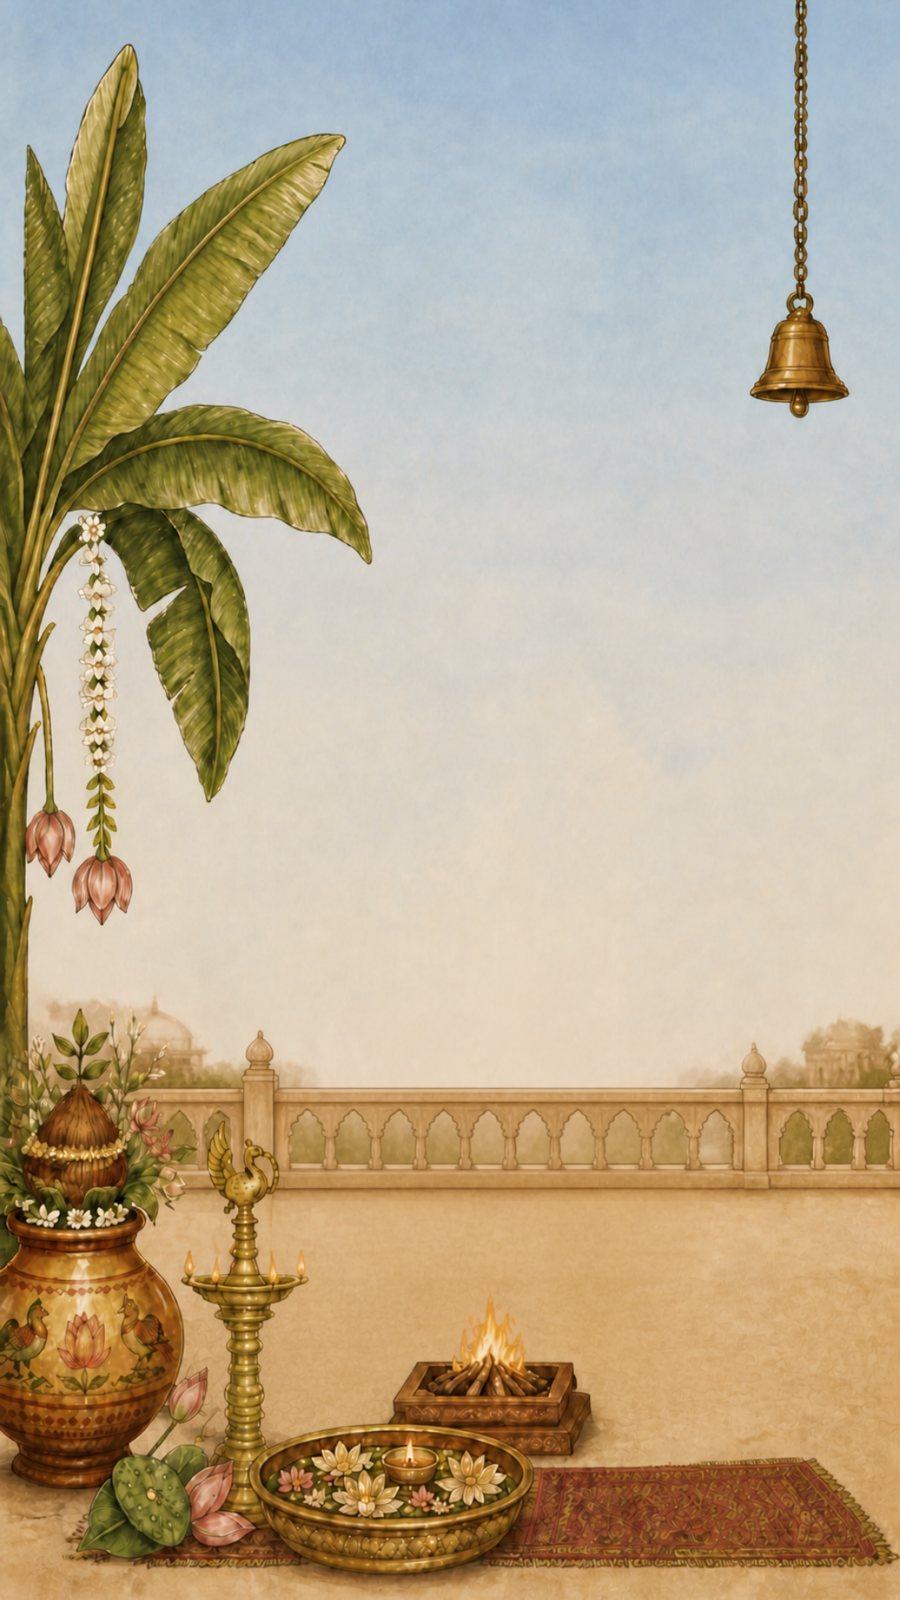
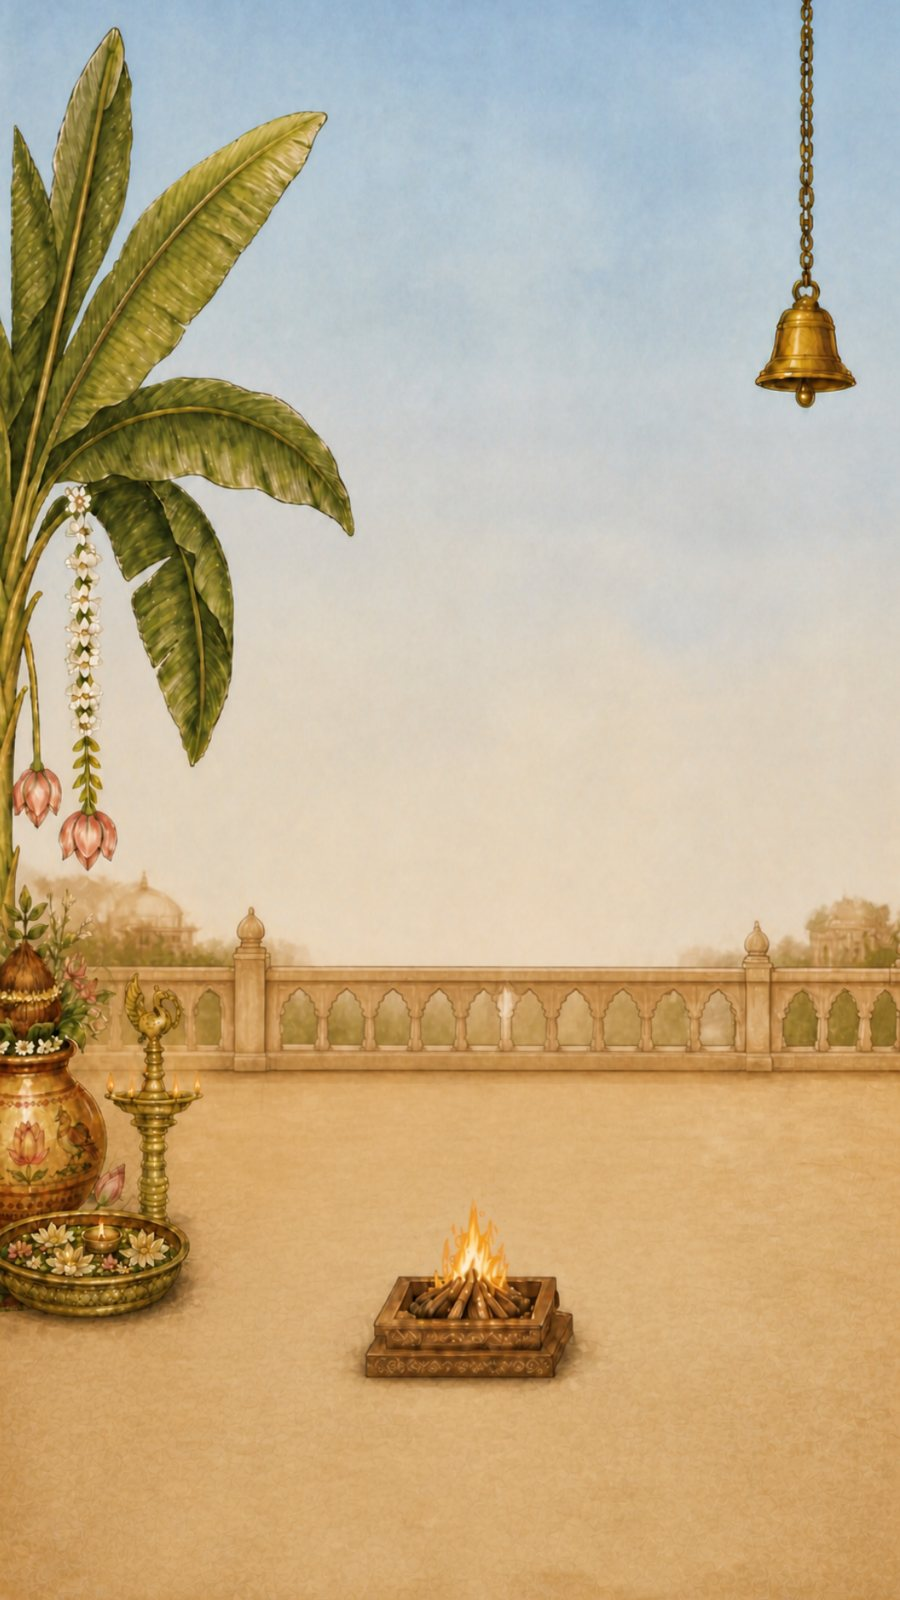
Fix the event animations, show every ritual, text amendments
Pin her fingertips in his hand while she twirls around him, land his
fingertip on her cheek before the haldi appears, and walk the pheras
around a centred fire on open floor. Show all seven rituals at once,
drop the repeated D-Day label, and update chapter three and the groom's
family contact.

Claude-Session: https://claude.ai/code/session_019B6NoVCTSqGoMKxvRqAEtT

diff --git a/css/main.css b/css/main.css
@@ -364,31 +364,62 @@ body.door-open .leaf-r { transform: rotateY(105deg); }
 .ev-scene::after { content: ""; position: absolute; inset: 0; pointer-events: none; background: linear-gradient(180deg, var(--bg), transparent 14%, transparent 90%, var(--bg)); z-index: 4; }
 .fig { position: absolute; display: block; height: auto; }
 
-/* night one: she twirls across the floor into his arm */
+
+/* night one: he holds her fingertips up high and she twirls around him */
 .scene-cocktail .fig-him { left: 14%; bottom: 7%; width: 30%; z-index: 2; }
-.scene-cocktail .fig-her { left: 34%; bottom: 6%; width: 40%; z-index: 3; animation: twirl 7s cubic-bezier(.45, 0, .3, 1) infinite; transform-origin: 50% 90%; }
+.scene-cocktail .fig-her { left: 16.5%; bottom: 7%; width: 40.0%; z-index: 3; transform-origin: 64.6% 0; scale: -1 1; animation: twirl 8s ease-in-out infinite; }
 @keyframes twirl {
-    0%, 8% { translate: 52% 0; scale: 1 1; }
-    18% { scale: -1 1; } 28% { scale: 1 1; } 38% { scale: -1 1; } 48% { scale: 1 1; }
-    56%, 86% { translate: 0 0; scale: 1 1; rotate: -3deg; }
-    100% { translate: 52% 0; scale: 1 1; rotate: 0deg; }
+    0%, 6% { scale: -1 1; rotate: 0deg; z-index: 3; }
+    18% { scale: 1 1; rotate: 6deg; z-index: 3; }
+    30% { scale: -1 1; rotate: 0deg; z-index: 1; }
+    42% { scale: 1 1; rotate: 6deg; z-index: 3; }
+    54% { scale: -1 1; rotate: 0deg; z-index: 1; }
+    62%, 100% { scale: -1 1; rotate: 0deg; z-index: 3; }
 }
 
-/* morning three: he leans in and dabs haldi on her cheek */
-.scene-haldi .fig-him { left: 2%; bottom: 7%; width: 52%; z-index: 2; transform-origin: 30% 95%; animation: dab 5s ease-in-out infinite; }
-.scene-haldi .fig-her-wrap { position: absolute; right: 2%; bottom: 7%; width: 50%; z-index: 3; animation: giggle 5s ease-in-out infinite; transform-origin: 50% 100%; }
+/* morning three: they sit apart, he leans in, his fingers touch her cheek, the haldi appears */
+.scene-haldi .fig-him { left: 6.4%; bottom: 7%; width: 52%; z-index: 3; transform-origin: 30% 95%; animation: dab 6s ease-in-out infinite; }
+.scene-haldi .fig-her-wrap { position: absolute; left: 52%; bottom: 7%; width: 50%; z-index: 2; animation: giggle 6s ease-in-out infinite; transform-origin: 50% 100%; }
 .scene-haldi .fig-her { position: static; width: 100%; }
 .smudge {
-    position: absolute; left: 44%; top: 21%; width: 9%; aspect-ratio: 1.3; border-radius: 50%;
+    position: absolute; left: 31.5%; top: 12.5%; width: 9%; aspect-ratio: 1.3; border-radius: 50%;
     background: radial-gradient(ellipse, rgba(245, 190, 30, .95) 30%, rgba(245, 190, 30, 0) 70%);
-    opacity: 0; animation: smudge 5s ease-in-out infinite;
+    opacity: 0; animation: smudge 6s ease-in-out infinite;
 }
-@keyframes dab { 0%, 15% { translate: 0 0; rotate: 0deg; } 38%, 48% { translate: 15% -2%; rotate: 4deg; } 65%, 100% { translate: 0 0; rotate: 0deg; } }
-@keyframes giggle { 0%, 40% { rotate: 0deg; translate: 0 0; } 46% { rotate: 3deg; translate: 2% 0; } 52% { rotate: -1deg; } 58%, 100% { rotate: 0deg; translate: 0 0; } }
-@keyframes smudge { 0%, 42% { opacity: 0; scale: .4; } 50%, 92% { opacity: 1; scale: 1; } 100% { opacity: 0; } }
+@keyframes dab { 0%, 22% { left: 6.4%; rotate: 0deg; } 42%, 58% { left: 22.4%; rotate: -12.9deg; } 76%, 100% { left: 6.4%; rotate: 0deg; } }
+@keyframes giggle { 0%, 22% { left: 52%; rotate: 0deg; } 42% { left: 48%; rotate: 0deg; } 50% { left: 48%; rotate: 3deg; } 58% { left: 48%; rotate: -1deg; } 76%, 100% { left: 52%; rotate: 0deg; } }
+@keyframes smudge { 0%, 46% { opacity: 0; scale: .3; } 54%, 92% { opacity: 1; scale: 1; } 100% { opacity: 0; } }
 
-/* the D-Day: walking the pheras around the sacred fire */
-.scene-wedding .flame { position: absolute; left: 50%; bottom: 17%; width: 12%; aspect-ratio: 1 / 1.3; translate: -50% 0; z-index: 2; }
+/* the D-Day: walking the pheras around the sacred fire, behind it on the far side */
+.scene-wedding .flame { position: absolute; left: 53%; bottom: 24.5%; width: 9%; aspect-ratio: 1 / 1.3; translate: -50% 0; z-index: 2; }
+.scene-wedding .fig-pheras { width: 25%; translate: none; animation: pheras 16s linear infinite; }
+@keyframes pheras {
+    0.00% { left: 57.00%; bottom: 2.00%; transform: translateX(-50%) scale(1.000, 1.000); z-index: 4; }
+    4.17% { left: 63.99%; bottom: 2.56%; transform: translateX(-50%) scale(0.996, 0.996); z-index: 4; }
+    8.33% { left: 70.50%; bottom: 4.21%; transform: translateX(-50%) scale(0.983, 0.983); z-index: 4; }
+    12.50% { left: 76.09%; bottom: 6.83%; transform: translateX(-50%) scale(0.962, 0.962); z-index: 4; }
+    16.67% { left: 80.38%; bottom: 10.25%; transform: translateX(-50%) scale(0.935, 0.935); z-index: 4; }
+    20.83% { left: 83.08%; bottom: 14.23%; transform: translateX(-50%) scale(0.904, 0.904); z-index: 4; }
+    25.00% { left: 84.00%; bottom: 18.50%; transform: translateX(-50%) scale(0.870, 0.870); z-index: 4; }
+    29.17% { left: 83.08%; bottom: 22.77%; transform: translateX(-50%) scale(-0.836, 0.836); z-index: 1; }
+    33.33% { left: 80.38%; bottom: 26.75%; transform: translateX(-50%) scale(-0.805, 0.805); z-index: 1; }
+    37.50% { left: 76.09%; bottom: 30.17%; transform: translateX(-50%) scale(-0.778, 0.778); z-index: 1; }
+    41.67% { left: 70.50%; bottom: 32.79%; transform: translateX(-50%) scale(-0.757, 0.757); z-index: 1; }
+    45.83% { left: 63.99%; bottom: 34.44%; transform: translateX(-50%) scale(-0.744, 0.744); z-index: 1; }
+    50.00% { left: 57.00%; bottom: 35.00%; transform: translateX(-50%) scale(-0.740, 0.740); z-index: 1; }
+    54.17% { left: 50.01%; bottom: 34.44%; transform: translateX(-50%) scale(-0.744, 0.744); z-index: 1; }
+    58.33% { left: 43.50%; bottom: 32.79%; transform: translateX(-50%) scale(-0.757, 0.757); z-index: 1; }
+    62.50% { left: 37.91%; bottom: 30.17%; transform: translateX(-50%) scale(-0.778, 0.778); z-index: 1; }
+    66.67% { left: 33.62%; bottom: 26.75%; transform: translateX(-50%) scale(-0.805, 0.805); z-index: 1; }
+    70.83% { left: 30.92%; bottom: 22.77%; transform: translateX(-50%) scale(-0.836, 0.836); z-index: 1; }
+    75.00% { left: 30.00%; bottom: 18.50%; transform: translateX(-50%) scale(-0.870, 0.870); z-index: 4; }
+    79.17% { left: 30.92%; bottom: 14.23%; transform: translateX(-50%) scale(0.904, 0.904); z-index: 4; }
+    83.33% { left: 33.62%; bottom: 10.25%; transform: translateX(-50%) scale(0.935, 0.935); z-index: 4; }
+    87.50% { left: 37.91%; bottom: 6.83%; transform: translateX(-50%) scale(0.962, 0.962); z-index: 4; }
+    91.67% { left: 43.50%; bottom: 4.21%; transform: translateX(-50%) scale(0.983, 0.983); z-index: 4; }
+    95.83% { left: 50.01%; bottom: 2.56%; transform: translateX(-50%) scale(0.996, 0.996); z-index: 4; }
+    100.00% { left: 57.00%; bottom: 2.00%; transform: translateX(-50%) scale(1.000, 1.000); z-index: 4; }
+}
 .scene-wedding .flame i {
     position: absolute; left: 50%; bottom: 0; width: 70%; height: 100%; translate: -50% 0; border-radius: 50% 50% 35% 35% / 65% 65% 35% 35%;
     background: radial-gradient(ellipse at 50% 85%, #fff4c2 0 18%, #ffc24a 40%, rgba(242, 106, 33, .85) 66%, rgba(242, 106, 33, 0) 72%);
@@ -397,16 +428,6 @@ body.door-open .leaf-r { transform: rotateY(105deg); }
 .scene-wedding .flame i:nth-child(2) { width: 50%; height: 78%; translate: -90% 0; animation-duration: .8s; }
 .scene-wedding .flame i:nth-child(3) { width: 48%; height: 72%; translate: -10% 0; animation-duration: .95s; animation-delay: -.3s; }
 @keyframes flicker { from { scale: 1 1; } to { scale: .88 1.12; } }
-.scene-wedding .fig-pheras { left: 50%; bottom: 8%; width: 46%; translate: -50% 0; animation: pheras 12s linear infinite; }
-@keyframes pheras {
-    0% { transform: translate(-58%, 0) scale(1, 1); z-index: 3; }
-    24% { transform: translate(58%, -14%) scale(.9, .9); z-index: 3; }
-    25% { transform: translate(58%, -14%) scale(-.9, .9); z-index: 1; }
-    50% { transform: translate(0, -24%) scale(-.78, .78); z-index: 1; }
-    74% { transform: translate(-58%, -14%) scale(-.9, .9); z-index: 1; }
-    75% { transform: translate(-58%, -14%) scale(.9, .9); z-index: 3; }
-    100% { transform: translate(-58%, 0) scale(1, 1); z-index: 3; }
-}
 .scene-wedding .bells-r { right: 10%; height: 150px; }
 
 .ev-details { max-width: 460px; margin: 0 auto; padding: 26px 22px 0; }
@@ -425,15 +446,15 @@ body.door-open .leaf-r { transform: rotateY(105deg); }
 /* order of the day as a horizontal timeline */
 .schedule-wrap { margin: 8px -22px 26px; }
 .schedule-hint { font: italic 400 15px var(--display); color: var(--soft); margin: -6px 0 12px; }
-.timeline { list-style: none; margin: 0; padding: 6px 22px 4px; display: flex; overflow-x: auto; scroll-snap-type: x proximity; scrollbar-width: none; }
+.timeline { list-style: none; margin: 0; padding: 6px 14px 4px; display: flex; flex-wrap: wrap; justify-content: center; row-gap: 16px; }
 .timeline::-webkit-scrollbar { display: none; }
-.timeline li { flex: 0 0 auto; scroll-snap-align: center; }
-.timeline button { position: relative; width: 104px; display: flex; flex-direction: column; align-items: center; gap: 8px; padding: 0 4px; border: 0; background: none; color: inherit; cursor: pointer; font: inherit; }
+.timeline li { flex: 0 0 25%; }
+.timeline button { position: relative; width: 100%; display: flex; flex-direction: column; align-items: center; gap: 8px; padding: 0 4px; border: 0; background: none; color: inherit; cursor: pointer; font: inherit; }
 .timeline button::before { content: ""; position: absolute; top: 31px; left: 0; right: 0; height: 1px; background: var(--accent); opacity: .6; }
-.timeline li:first-child button::before { left: 50%; } .timeline li:last-child button::before { right: 50%; }
+.timeline li:nth-child(4n+1) button::before { left: 50%; } .timeline li:nth-child(4n) button::before, .timeline li:last-child button::before { right: 50%; }
 .t-time { font: 600 12px var(--sans); letter-spacing: .08em; color: var(--accent); }
 .t-dot { position: relative; z-index: 1; width: 12px; height: 12px; rotate: 45deg; background: var(--bg); border: 1.5px solid var(--ink); transition: background .3s, scale .3s; }
-.t-name { font: italic 500 16px/1.2 var(--display); min-height: 2.4em; }
+.t-name { font: italic 500 15px/1.2 var(--display); min-height: 2.4em; }
 .timeline button[aria-expanded="true"] .t-dot { background: var(--accent); border-color: var(--accent); scale: 1.3; }
 .t-about { min-height: 3em; max-width: 340px; margin: 10px auto 0; padding: 0 22px; font: italic 400 16px/1.5 var(--display); color: var(--soft); }
 

diff --git a/js/content.js b/js/content.js
@@ -81,7 +81,7 @@ window.SITE = {
             {
                 title: "Exploring Each Other's Favourites",
                 art: "ch3-food",
-                text: "This was the getting-to-know-you phase. Endless car rides with no real destination, long talks, and a mission to eat their way across Delhi until they had a favourite for every cuisine. Burma Burma, PF Chang's, Concept Shawarma, Galaxy Pizza, Moet's, Yum Yum Cha… the list kept growing, and so did they.",
+                text: "This was the getting-to-know-you phase. Endless car rides with no real destination, long talks, and a mission to eat their way across Delhi until they had a favourite for every cuisine. Burma Burma, PF Chang's, Concept Shawarma, Galaxy Pizza, Moet's, Yum Yum Cha… the list kept growing, and so did their love.",
             },
             {
                 title: "Poles Apart",
@@ -146,7 +146,7 @@ window.SITE = {
         },
         wedding: {
             art: "ev-wedding",
-            kicker: "The D-Day",
+            kicker: "",
             short: "The Wedding",
             title: "The Wedding",
             tagline: "A little teary-eyed, a lot of happily ever after.",
@@ -192,7 +192,7 @@ window.SITE = {
         title: "Questions? Call us",
         people: [
             { side: "bride", name: "Urvashi Kapoor", role: "The bride's family", phone: "+91 92107 08587" },
-            { side: "groom", name: "Gulshan Sachdeva", role: "The groom's father", phone: "+91 98111 38797" },
+            { side: "groom", name: "Gulshan Sachdeva", role: "The groom's family", phone: "+91 98111 38797" },
         ],
     },
 

diff --git a/index.html b/index.html
@@ -14,7 +14,7 @@
   <meta property="og:title" content="Himanshi &amp; Karan · Wedding Invitation">
   <meta property="og:description" content="You're invited. 28 Nov — 01 Dec 2026 · New Delhi · #KaranMani-fested">
   <meta property="og:url" content="https://himanshikapoor3099.github.io/wedding-invite/">
-  <meta property="og:image" content="https://himanshikapoor3099.github.io/wedding-invite/assets/share.jpg?v=7">
+  <meta property="og:image" content="https://himanshikapoor3099.github.io/wedding-invite/assets/share.jpg?v=8">
   <meta property="og:image:width" content="1200">
   <meta property="og:image:height" content="630">
   <meta name="twitter:card" content="summary_large_image">
@@ -23,8 +23,8 @@
   <link rel="preconnect" href="https://fonts.googleapis.com">
   <link rel="preconnect" href="https://fonts.gstatic.com" crossorigin>
   <link href="https://fonts.googleapis.com/css2?family=Cinzel:wght@400;500;600&family=Italianno&family=Jost:wght@300;400;500;600&family=Noto+Serif+Devanagari:wght@500&family=Noto+Serif+Gurmukhi:wght@500&family=Playfair+Display:ital,wght@0,400;0,500;1,400;1,500&display=swap" rel="stylesheet">
-  <link rel="stylesheet" href="css/main.css?v=7">
-  <script src="js/content.js?v=7"></script>
+  <link rel="stylesheet" href="css/main.css?v=8">
+  <script src="js/content.js?v=8"></script>
 </head>
 <body class="locked">
 
@@ -133,6 +133,6 @@
     <span></span><span></span><span></span><span></span>
   </button>
 
-  <script src="js/page.js?v=7"></script>
+  <script src="js/page.js?v=8"></script>
 </body>
 </html>

diff --git a/js/page.js b/js/page.js
@@ -348,7 +348,7 @@
         <div class="passage">${passage ? `<p>${esc(passage)}</p>` : ""}</div>
         <section class="event ev-${e.id}" id="ev-${e.id}" data-theme="${e.id}">
           <div class="ev-head">
-            <p class="ev-kicker rv">${esc(e.kicker)}</p>
+            ${e.kicker ? `<p class="ev-kicker rv">${esc(e.kicker)}</p>` : ""}
             <h2 class="ev-title rv">${esc(e.title)}</h2>
             <p class="ev-tagline rv">${esc(e.tagline)}</p>
           </div>
